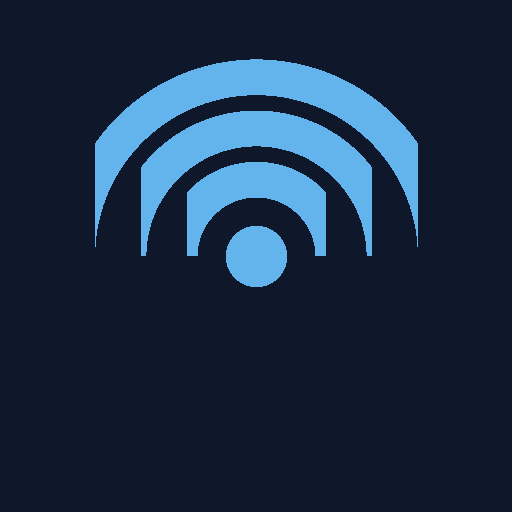
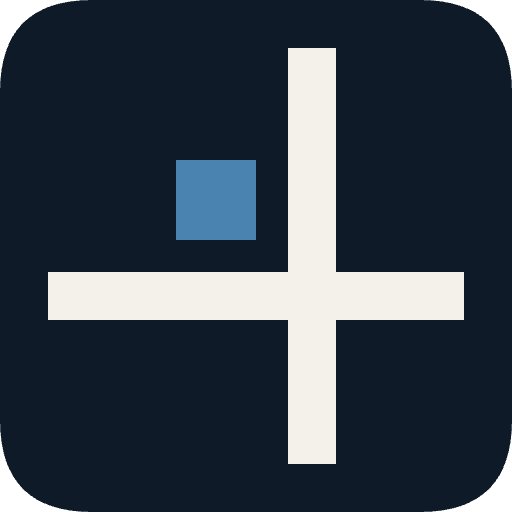
rebrand(wave2): frontend brand identity v1 (#1427)
PR-2D in Wave 2.

59 files / +136/-24. v1 brand assets dropped in (favicons + OG/Twitter cards + brand SVGs),
index.html title/OG/meta, manifest.json PWA brand, package.json name=@user/core-frontend
v=2.0.0, App.svelte console prefix, MediaSession title, diagnostic ZIP filename.
Vitest 1726 passed, build clean.

Pull request: rebrand(wave2): frontend brand identity v1 (PR-2D)
## Summary

Wave 2 **PR-2D**: replace icom-lan brand identity in the frontend with RigPlane v1 brand assets from rigplane-strategy.

## Changes

- **Drop in v1 brand assets** from `rigplane-strategy/docs/product/brand/2026-05-05-v1/final/`:
  - Favicons: `favicon.ico`, `favicon-{16,32,48}.png`, `apple-touch-icon.png`, `pwa-{192,512}.png` (replaced existing names so PWA config + manifest don't churn)
  - Theme-aware variants: `favicons/{ink,paper,transparent}/favicon-{16,32,48,64,128,180,192,256,512}.png` — 28 files
  - Brand SVG masters: `brand/{wordmark,mark,lockup}-{light,dark,mono}.svg` — 9 files
  - OG/Twitter cards: `/og-image.png` (1200×630), `/twitter-card.png` (1200×600)
  - Marketing imagery: `brand/marketing/{github-social-preview,readme-banner}.png`

- **`frontend/index.html`** — `<title>` "icom-lan" → "RigPlane", OG + Twitter meta tags, explicit favicon links, `theme-color` → RigPlane Ink (`#0E1A28`), description

- **`frontend/public/manifest.json`** — name/short_name/description/colors, replaced dangling `/favicon.svg` reference with real PNG icons

- **`frontend/package.json`** — name `"@user/core-frontend"`, version `2.0.0`, homepage `https://rigplane.dev/`, repository, bugs, license. Lockfile synced.

- **`frontend/README.md`** — title and tagline

- **Visible UI strings:**
  - `App.svelte` — `[icom-lan]` console.warn prefix → `[rigplane]`
  - `lib/media/media-session.ts` (+ test) — `MediaMetadata.title` "icom-lan" → "RigPlane"
[…]

diff --git a/frontend/index.html b/frontend/index.html
@@ -3,12 +3,34 @@
   <head>
     <meta charset="UTF-8" />
     <meta name="viewport" content="width=device-width, initial-scale=1.0, viewport-fit=cover" />
-    <title>icom-lan</title>
-    <meta name="theme-color" content="#0f172a" />
+    <title>RigPlane</title>
+    <meta name="description" content="RigPlane — multi-vendor radio control platform (Icom, Yaesu, Discovery, Xiegu) over LAN/USB." />
+    <meta name="theme-color" content="#0E1A28" />
     <meta name="apple-mobile-web-app-capable" content="yes" />
     <meta name="apple-mobile-web-app-status-bar-style" content="black-translucent" />
+    <meta name="apple-mobile-web-app-title" content="RigPlane" />
+
+    <!-- Favicons -->
+    <link rel="icon" href="/favicon.ico" sizes="any" />
+    <link rel="icon" type="image/png" sizes="16x16" href="/favicon-16.png" />
+    <link rel="icon" type="image/png" sizes="32x32" href="/favicon-32.png" />
+    <link rel="icon" type="image/png" sizes="48x48" href="/favicon-48.png" />
+    <link rel="apple-touch-icon" sizes="180x180" href="/apple-touch-icon.png" />
     <link rel="manifest" href="/manifest.json" />
-    <link rel="apple-touch-icon" href="/apple-touch-icon.png" />
+
+    <!-- Open Graph -->
+    <meta property="og:type" content="website" />
+    <meta property="og:title" content="RigPlane" />
+    <meta property="og:description" content="Multi-vendor radio control platform over LAN/USB." />
+    <meta property="og:image" content="/og-image.png" />
+    <meta property="og:url" content="https://rigplane.dev/" />
+    <meta property="og:site_name" content="RigPlane" />
+
+    <!-- Twitter Card -->
+    <meta name="twitter:card" content="summary_large_image" />
+    <meta name="twitter:title" content="RigPlane" />
+    <meta name="twitter:description" content="Multi-vendor radio control platform over LAN/USB." />
+    <meta name="twitter:image" content="/twitter-card.png" />
   </head>
   <body>
     <script>

diff --git a/frontend/src/App.svelte b/frontend/src/App.svelte
@@ -27,7 +27,7 @@
     if (typeof window !== 'undefined') {
       const uiParam = new URLSearchParams(window.location.search).get('ui');
       if (uiParam === 'v1') {
-        console.warn('[icom-lan] ?ui=v1 is no longer supported; v2 is the only UI. Update bookmarks.');
+        console.warn('[rigplane] ?ui=v1 is no longer supported; v2 is the only UI. Update bookmarks.');
       }
     }
 

diff --git a/frontend/src/components-v2/dialogs/SendReportDialog.svelte b/frontend/src/components-v2/dialogs/SendReportDialog.svelte
@@ -139,7 +139,7 @@
       const url = URL.createObjectURL(blob);
       const a = document.createElement('a');
       a.href = url;
-      a.download = `icom-lan-diagnostic-${preview.preview_id}.zip`;
+      a.download = `rigplane-diagnostic-${preview.preview_id}.zip`;
       document.body.appendChild(a);
       a.click();
       document.body.removeChild(a);

diff --git a/frontend/src/lib/media/__tests__/media-session.test.ts b/frontend/src/lib/media/__tests__/media-session.test.ts
@@ -108,7 +108,7 @@ describe('media-session', () => {
     mod.initMediaSession();
 
     expect(navigator.mediaSession.metadata).toMatchObject({
-      title: 'icom-lan',
+      title: 'RigPlane',
       artist: 'Radio Control',
     });
   });

diff --git a/frontend/src/lib/media/media-session.ts b/frontend/src/lib/media/media-session.ts
@@ -69,7 +69,7 @@ export function initMediaSession(): void {
   startSilentAudio();
 
   navigator.mediaSession.metadata = new MediaMetadata({
-    title: 'icom-lan',
+    title: 'RigPlane',
     artist: 'Radio Control',
   });
 

diff --git a/frontend/README.md b/frontend/README.md
@@ -1,6 +1,7 @@
-# icom-lan Frontend
+# RigPlane Frontend
 
-Svelte 5 + TypeScript + Vite UI for the icom-lan radio controller.
+Svelte 5 + TypeScript + Vite UI for the RigPlane multi-vendor radio control
+platform (Icom, Yaesu, Discovery, Xiegu) over LAN/USB.
 
 ## Quick Start
 